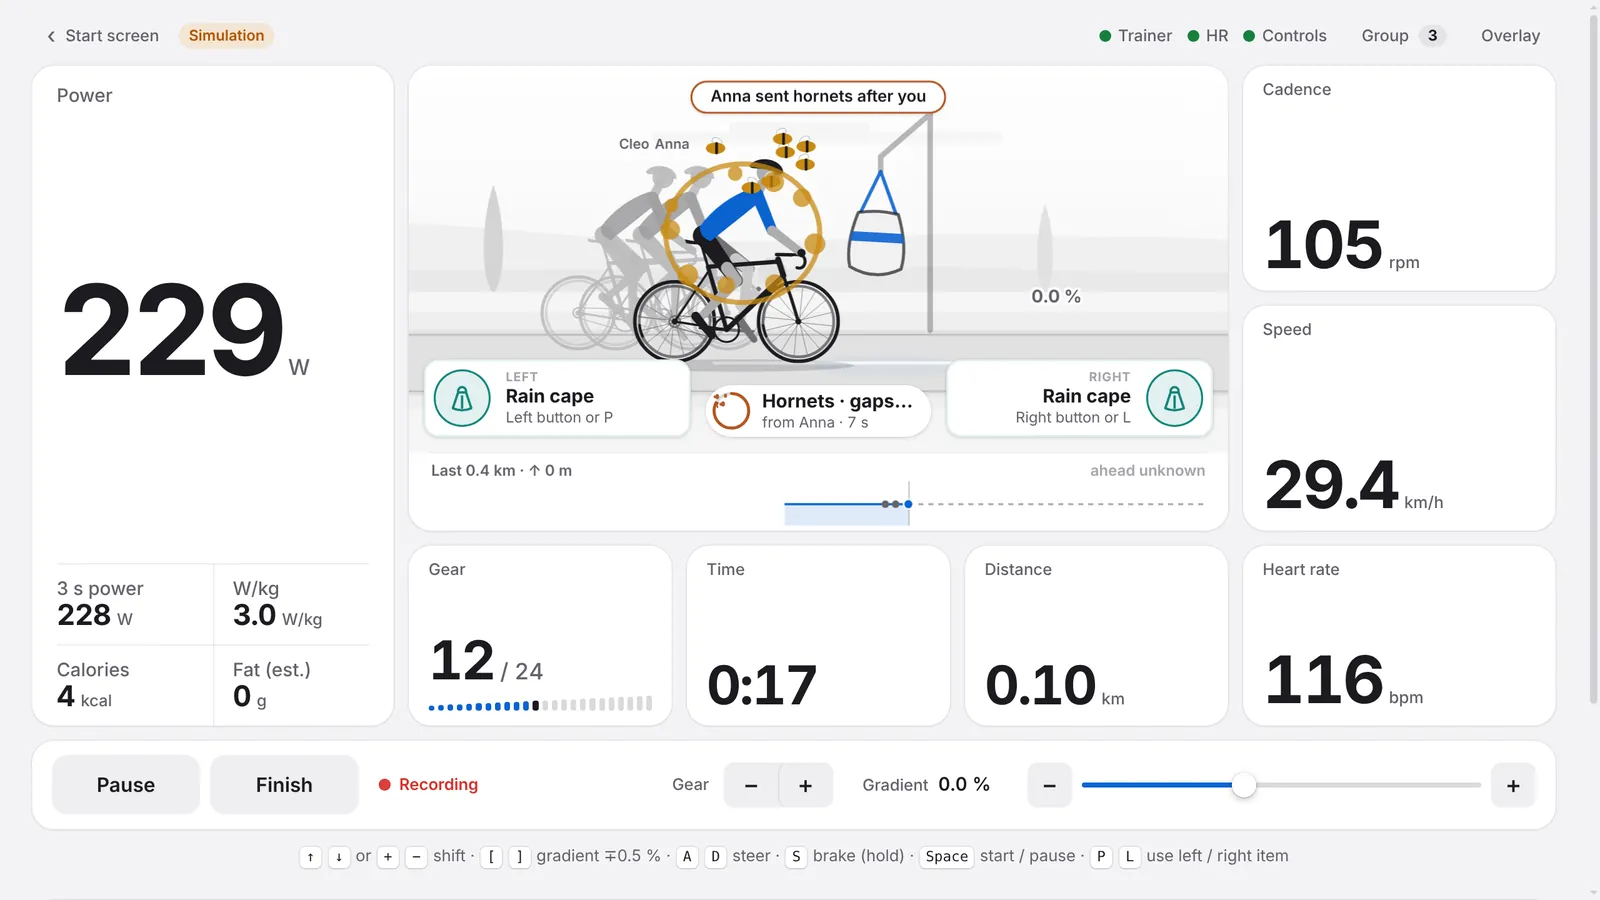
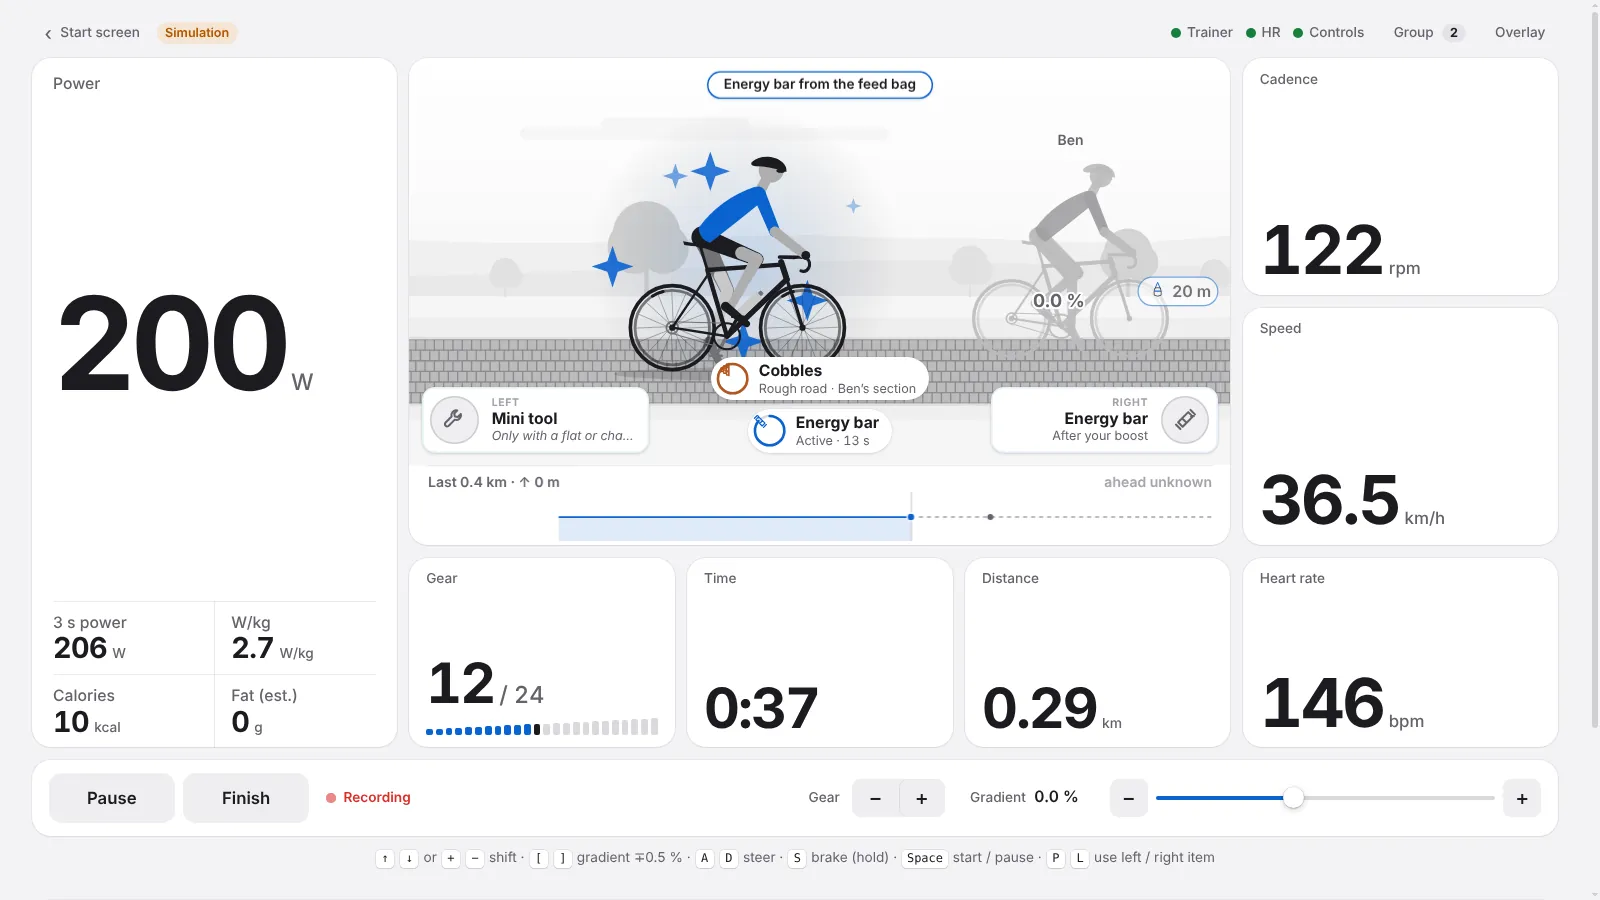
Describe the new Rumble items in README and website
Claude-Session: https://claude.ai/code/session_01UfRmLSL3FLoWCysEUJS1jF

diff --git a/docs/index.html b/docs/index.html
@@ -216,10 +216,13 @@
               <h3>Power-ups and Freilauf Rumble</h3>
               <p>
                 Collect a power-up on the road or earn one with a short effort. In a Rumble, ride
-                past feed bags for items and hold two at a time: throw a water bottle at the rider
-                ahead, drop a mud puddle behind you, send hornets after the leader, or pull on a
-                rain cape. Items only move race positions — the trainer's resistance, your recording
-                and your <code>.fit</code> file always stay your own power.
+                past feed bags for items and hold two at a time: eat an energy bar, throw a water
+                bottle at the rider ahead, drop a mud puddle or scatter tacks behind you for a flat
+                tyre, drop the chain of the rider behind, lay a rough section of cobbles, gravel
+                track, forest path or branches and leaves, send hornets after the leader, pull on a
+                rain cape, fix a flat with your mini tool, or call the team car. Items only move
+                race positions — the trainer's resistance, your recording and your <code>.fit</code>
+                file always stay your own power.
               </p>
             </div>
             <img
@@ -229,7 +232,7 @@
               height="720"
               loading="lazy"
               decoding="async"
-              alt="Freilauf Rumble: hornets swarm around the rider, a notice says Anna sent hornets after you, a feed bag hangs from a stand at the roadside, and both item slots hold a rain cape."
+              alt="Freilauf Rumble: the rider crosses a stretch of cobbles that Ben laid, with sparkles from an energy bar; the left item slot holds a mini tool and the right one another energy bar."
             />
           </div>
 

diff --git a/README.md b/README.md
@@ -41,17 +41,17 @@ ride stays on your machine, as plain files in open formats.
 
 ## What it does
 
-|                                                                                                                                                                                                                                                                                                                          |                                                                                                                                                                                                                                                                                                                                                                     |
-| ------------------------------------------------------------------------------------------------------------------------------------------------------------------------------------------------------------------------------------------------------------------------------------------------------------------------ | ------------------------------------------------------------------------------------------------------------------------------------------------------------------------------------------------------------------------------------------------------------------------------------------------------------------------------------------------------------------- |
-| <img src="docs/assets/screenshots/start-light.webp" width="420" alt="The start screen: ‘What are you riding today?’ with four cards — Free ride (selected), Workout, Route and FTP test — ‘With whom: Alone or Group ride’, the device status at the bottom and one large Start riding button.">                         | **Choose, then ride.** Freilauf opens on one start screen: free ride, a workout, a GPX route or an FTP test — alone or with friends — and one **Start riding** button. Devices, Activity and Settings are a click away; the ride itself fills the window.                                                                                                           |
-| <img src="docs/assets/screenshots/countdown-light.webp" width="420" alt="The ride view behind a blur with a large countdown ring showing 4, ‘Get ready’ and the hint ‘Time and recording start at zero. Space or Esc cancels.’">                                                                                         | **A countdown before you go.** Starting or resuming counts down (off, 3, 5 or 10 s; 3 by default) in the ride view and the overlay; time and recording begin at zero. Press Start again or <kbd>Esc</kbd> to cancel.                                                                                                                                                |
-| <img src="docs/assets/screenshots/overlay-over-video.webp" width="420" alt="The stats overlay: semi-transparent tiles for power, heart rate, cadence, speed, gear, time and distance, plus a small group list, over a colourful background.">                                                                            | **An overlay over anything.** A transparent, always-on-top, click-through window with the numbers you choose, on top of a fullscreen video or any other app. A hotkey (`Ctrl/Cmd+Shift+O`) toggles edit mode to move and resize it.                                                                                                                                 |
-| <img src="docs/assets/screenshots/workout-erg-dark.webp" width="420" alt="A structured workout in progress in dark mode: target 91 W, the step name Warm-up of Sweet spot 3×12, a coloured block chart of the whole workout, the time left in the step, Restart step, Skip step and intensity controls.">                | **Structured workouts in ERG mode.** The trainer holds the target power. Import `.zwo` files, use the built-in library, measure your FTP with a 20-minute or a ramp test, and share a workout with your group ([workouts](docs/workouts.md)).                                                                                                                       |
-| <img src="docs/assets/screenshots/ride-route-light.webp" width="420" alt="Riding the built-in Punchy circuit: the road seen from behind the rider, bending to the left, with the elevation profile of the whole loop and of the next few hundred metres, a mini map, ‘To go 3.7 km’, ‘Climbing left 71 m’ and ‘Lap 1’."> | **Real routes from GPX.** Import a GPX file or pick a built-in route: its gradient drives the trainer, and the ride scene shows the road from behind the rider, bending and climbing as the route does. Click the profile or the map to start or jump anywhere; loops count laps, and the `.fit` file gets a lap per jump ([routes](docs/routes.md)).               |
-| <img src="docs/assets/screenshots/group-ride-light.webp" width="420" alt="A group ride: three riders side by side on a flat road, two of them labelled Cleo and Ben, with Group 3 in the toolbar and a Hornets item in the left slot.">                                                                                  | **Group rides, peer-to-peer.** Up to eight riders, connected directly over WebRTC. By default the apps find each other through public relays — no server to run, just an invite link — or through your own signalling server. Share a workout or a route and start together on a countdown ([ride with friends](docs/group-rides.md)).                              |
-| <img src="docs/assets/screenshots/rumble-light.webp" width="420" alt="Freilauf Rumble: a swarm of hornets around the rider, ‘Anna sent hornets after you’, a feed bag held out from a stand at the roadside, rain capes in both item slots, and a card ‘Hornets · from Anna · 7 s’.">                                    | **Power-ups and Freilauf Rumble.** Collect a power-up on the road or earn one with a short effort. In a Rumble, ride past feed bags for items — water bottle, mud puddle, hornets, rain cape — held in two slots. Items only move race positions; the recording and the `.fit` file stay your own power ([power-ups](docs/power-ups.md), [Rumble](docs/rumble.md)). |
-| <img src="docs/assets/screenshots/summary-light.webp" width="420" alt="The summary after a ride: ‘Well ridden.’ with time, distance, average power and points, an Energy card with calories from power, a heart-rate cross-check, fat and carbohydrate, and the buttons Export .fit, Ride again and Done.">              | **A short summary, honest numbers.** After Finish: time, distance, power, points, personal bests, and calories with a rough fat / carbohydrate split ([energy](docs/energy.md)). Every ride is recorded locally and exports to `.fit`.                                                                                                                              |
-| <img src="docs/assets/screenshots/community-light.webp" width="420" alt="Activity → Community: this week's 234 points with distance, time, elevation, energy and rides, and a leaderboard of friends ranked by points, with your own row highlighted and older standings dimmed.">                                       | **Points, leaderboards and challenges — without a server.** Points measure load relative to your own FTP (an hour at FTP is 100). Friends' standings and challenges travel peer-to-peer whenever you ride together, and you choose per friend what they may see ([community](docs/community.md)).                                                                   |
+|                                                                                                                                                                                                                                                                                                                                      |                                                                                                                                                                                                                                                                                                                                                                                                                                                          |
+| ------------------------------------------------------------------------------------------------------------------------------------------------------------------------------------------------------------------------------------------------------------------------------------------------------------------------------------ | -------------------------------------------------------------------------------------------------------------------------------------------------------------------------------------------------------------------------------------------------------------------------------------------------------------------------------------------------------------------------------------------------------------------------------------------------------- |
+| <img src="docs/assets/screenshots/start-light.webp" width="420" alt="The start screen: ‘What are you riding today?’ with four cards — Free ride (selected), Workout, Route and FTP test — ‘With whom: Alone or Group ride’, the device status at the bottom and one large Start riding button.">                                     | **Choose, then ride.** Freilauf opens on one start screen: free ride, a workout, a GPX route or an FTP test — alone or with friends — and one **Start riding** button. Devices, Activity and Settings are a click away; the ride itself fills the window.                                                                                                                                                                                                |
+| <img src="docs/assets/screenshots/countdown-light.webp" width="420" alt="The ride view behind a blur with a large countdown ring showing 4, ‘Get ready’ and the hint ‘Time and recording start at zero. Space or Esc cancels.’">                                                                                                     | **A countdown before you go.** Starting or resuming counts down (off, 3, 5 or 10 s; 3 by default) in the ride view and the overlay; time and recording begin at zero. Press Start again or <kbd>Esc</kbd> to cancel.                                                                                                                                                                                                                                     |
+| <img src="docs/assets/screenshots/overlay-over-video.webp" width="420" alt="The stats overlay: semi-transparent tiles for power, heart rate, cadence, speed, gear, time and distance, plus a small group list, over a colourful background.">                                                                                        | **An overlay over anything.** A transparent, always-on-top, click-through window with the numbers you choose, on top of a fullscreen video or any other app. A hotkey (`Ctrl/Cmd+Shift+O`) toggles edit mode to move and resize it.                                                                                                                                                                                                                      |
+| <img src="docs/assets/screenshots/workout-erg-dark.webp" width="420" alt="A structured workout in progress in dark mode: target 91 W, the step name Warm-up of Sweet spot 3×12, a coloured block chart of the whole workout, the time left in the step, Restart step, Skip step and intensity controls.">                            | **Structured workouts in ERG mode.** The trainer holds the target power. Import `.zwo` files, use the built-in library, measure your FTP with a 20-minute or a ramp test, and share a workout with your group ([workouts](docs/workouts.md)).                                                                                                                                                                                                            |
+| <img src="docs/assets/screenshots/ride-route-light.webp" width="420" alt="Riding the built-in Punchy circuit: the road seen from behind the rider, bending to the left, with the elevation profile of the whole loop and of the next few hundred metres, a mini map, ‘To go 3.7 km’, ‘Climbing left 71 m’ and ‘Lap 1’.">             | **Real routes from GPX.** Import a GPX file or pick a built-in route: its gradient drives the trainer, and the ride scene shows the road from behind the rider, bending and climbing as the route does. Click the profile or the map to start or jump anywhere; loops count laps, and the `.fit` file gets a lap per jump ([routes](docs/routes.md)).                                                                                                    |
+| <img src="docs/assets/screenshots/group-ride-light.webp" width="420" alt="A group ride: three riders side by side on a flat road, two of them labelled Cleo and Ben, with Group 3 in the toolbar and a Hornets item in the left slot.">                                                                                              | **Group rides, peer-to-peer.** Up to eight riders, connected directly over WebRTC. By default the apps find each other through public relays — no server to run, just an invite link — or through your own signalling server. Share a workout or a route and start together on a countdown ([ride with friends](docs/group-rides.md)).                                                                                                                   |
+| <img src="docs/assets/screenshots/rumble-light.webp" width="420" alt="Freilauf Rumble: the rider on a stretch of cobbles laid by Ben, a card ‘Cobbles · Rough road · Ben’s section’, sparkles from an eaten energy bar with a card ‘Energy bar · Active · 13 s’, a mini tool in the left slot and another energy bar in the right."> | **Power-ups and Freilauf Rumble.** Collect a power-up on the road or earn one with a short effort. In a Rumble, ride past feed bags for items held in two slots — energy bar, water bottle, mud puddle, tacks for a flat tyre, mini tool, dropped chain, rough sections, hornets, rain cape, team car. Items only move race positions; the recording and the `.fit` file stay your own power ([power-ups](docs/power-ups.md), [Rumble](docs/rumble.md)). |
+| <img src="docs/assets/screenshots/summary-light.webp" width="420" alt="The summary after a ride: ‘Well ridden.’ with time, distance, average power and points, an Energy card with calories from power, a heart-rate cross-check, fat and carbohydrate, and the buttons Export .fit, Ride again and Done.">                          | **A short summary, honest numbers.** After Finish: time, distance, power, points, personal bests, and calories with a rough fat / carbohydrate split ([energy](docs/energy.md)). Every ride is recorded locally and exports to `.fit`.                                                                                                                                                                                                                   |
+| <img src="docs/assets/screenshots/community-light.webp" width="420" alt="Activity → Community: this week's 234 points with distance, time, elevation, energy and rides, and a leaderboard of friends ranked by points, with your own row highlighted and older standings dimmed.">                                                   | **Points, leaderboards and challenges — without a server.** Points measure load relative to your own FTP (an hour at FTP is 100). Friends' standings and challenges travel peer-to-peer whenever you ride together, and you choose per friend what they may see ([community](docs/community.md)).                                                                                                                                                        |
 
 And underneath:
 
@@ -151,9 +151,9 @@ See [docs/docker.md](docs/docker.md).
 
 Up to eight riders in a ride. Share a workout or a route with the group and start together on
 a countdown; each rider's targets follow their own FTP. Whoever creates the ride can make it a
-**[Freilauf Rumble](docs/rumble.md)**: feed bags at the roadside hand out items to throw, drop
-or wear, and they move only the race positions — never the trainer's resistance, the recording
-or the `.fit` file. Connections use public STUN servers and
+**[Freilauf Rumble](docs/rumble.md)**: feed bags at the roadside hand out items to eat, throw,
+drop, lay on the road or wear, and they move only the race positions — never the trainer's
+resistance, the recording or the `.fit` file. Connections use public STUN servers and
 no TURN relay, so riders behind some networks (symmetric NAT, common on mobile carriers and
 some company or university networks) cannot connect.
 
@@ -231,7 +231,8 @@ Next, roughly in this order of interest — none of it is built yet:
   [ADR 0003](docs/adr/0003-signalling-via-public-relays.md)) and ride data never touches a
   server (technical: [p2p](docs/p2p.md); for riders: [group-rides](docs/group-rides.md)).
 - Power-ups and Rumble items change only a separate race offset, never the recorded physics
-  ([ADR 0006](docs/adr/0006-power-ups.md), [ADR 0008](docs/adr/0008-rumble-items.md)).
+  ([ADR 0006](docs/adr/0006-power-ups.md), [ADR 0008](docs/adr/0008-rumble-items.md),
+  [ADR 0009](docs/adr/0009-rumble-road-items.md)).
 - Share with my watch is a small native helper that advertises standard Bluetooth sensor
   services ([ADR 0005](docs/adr/0005-sensor-relay.md)).
 
